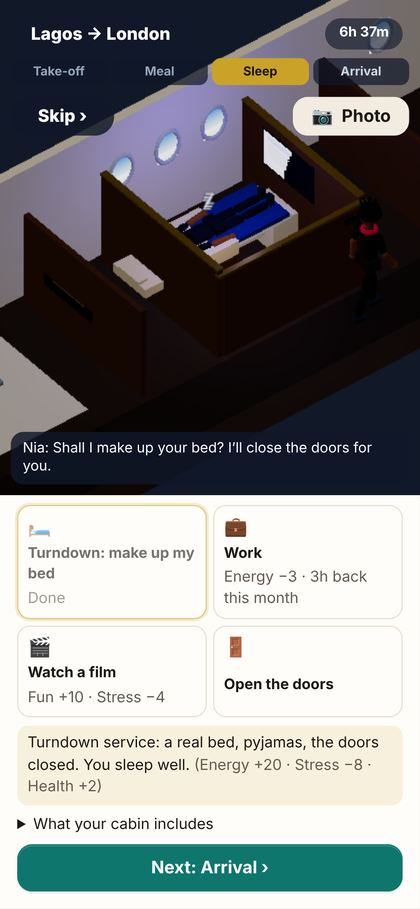
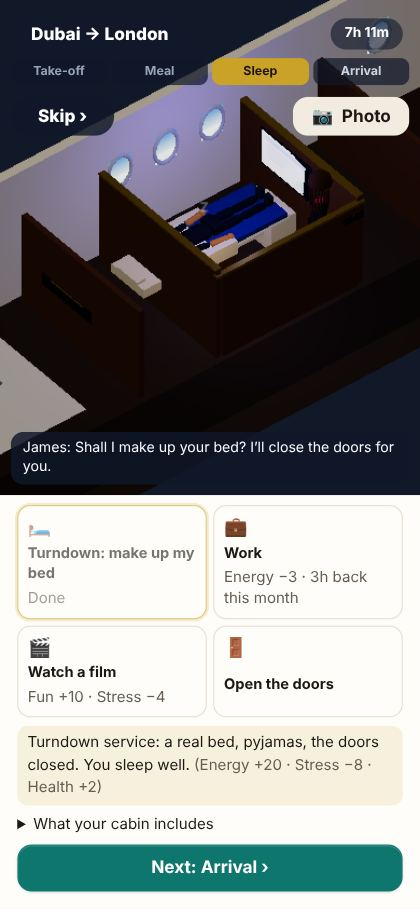
Landing page: no Lagos in the pictures; the founder has revenue
Product owner: no Lagos on the landing page. Every new picture is
retaken in e2e/landing-shots.spec.ts, spread over San Francisco (the
founder's company, three months in with its first revenue), Cairo (the
investor's tech event, the mall), Johannesburg (the banker's offers, the
Stock Exchange floor, bowling) and Dubai (the Central Bank door, a
skydive over the Palm, the first class lounge and suite to London, the
lifestyle picker). The spec now takes all of them itself; the shared
specs are unchanged. The city (SF), the club (London) and the mansion
never showed Lagos and stay.

Claude-Session: https://claude.ai/code/session_01McYc3Mep8Cjpus7NGEGGnw

diff --git a/apps/web/e2e/landing-shots.spec.ts b/apps/web/e2e/landing-shots.spec.ts
@@ -1,3 +1,4 @@
+import type { Locator } from '@playwright/test';
 import {
   expect,
   letters,
@@ -13,14 +14,16 @@ import {
 /**
  * The landing page's pictures (public/landing), taken from the game itself
  * (LANDING_ASSETS=<dir> only): a phone screen is a 420×909 JPEG (390×844 at
- * a 420/390 scale), a career card's picture a 420×315 slice of one. The
- * founder's company, an investor pitched at a tech event, a banker's offers
- * from the shareholders, the Stock Exchange floor and the lifestyle picker.
+ * a 420/390 scale), a career card's picture a 420×315 slice of one.
  *
- * The rest come from the screenshots other specs already take, scaled to
- * 420×909: FIRST_CLASS_SHOTS (first-lounge, first-suite), GAME_SHOTS
- * (bowling, skydive), BANKER_SHOTS (central-bank), SHOTS_DIR in
- * mall-more.spec.ts (mall).
+ * Spread over San Francisco, Cairo, Dubai and Johannesburg (product owner:
+ * no Lagos on the landing page): the founder's company with its first
+ * revenue (SF), founders pitching an investor at a tech event (Cairo), a
+ * banker's offers from the shareholders (Johannesburg) and the Central
+ * Bank's appointment door (Dubai), the Stock Exchange floor (Johannesburg),
+ * bowling (Johannesburg), a skydive (Dubai), the first class lounge and
+ * suite (Dubai to London), the mall (Cairo) and the lifestyle picker (Dubai).
+ * The city (SF), the club (London) and the mansion are older pictures.
  */
 const DIR = process.env.LANDING_ASSETS;
 test.use({
@@ -28,6 +31,8 @@ test.use({
   deviceScaleFactor: 420 / 390,
   launchOptions: { args: ['--use-angle=swiftshader', '--enable-unsafe-swiftshader'] },
 });
+/** Software WebGL draws the real city slowly: every 3D step gets this long. */
+const SLOW = 60_000;
 
 /** A whole phone screen, without the toasts over it. */
 async function phoneShot(page: Page, name: string) {
@@ -58,15 +63,42 @@ const command = (page: Page, cmd: unknown) =>
     return { status: r.status, body: await r.json() };
   }, cmd);
 
-async function investor(page: Page) {
+// eslint-disable-next-line @typescript-eslint/no-explicit-any -- the shots read the view loosely
+const view = (page: Page): Promise<any> =>
+  page.request
+    .get('/api/state')
+    .then((r) => r.json())
+    .then((s) => s.view);
+
+/** A month on (the dev tools' settle), in `market`. */
+const settle = (page: Page, market: string) =>
+  page.request.post('/api/dev/settle', { headers: { 'x-runway': '1' }, data: { market } });
+
+/** The map, in Lite (2D) or 3D. */
+const quality = (page: Page, q: 'lite' | '3d') =>
+  page.addInitScript((v) => localStorage.setItem('runway.mapQuality', v), q);
+
+async function founder(page: Page, market: RegExp) {
+  await playAsGuest(page);
+  await setupFounder(page, {
+    name: 'Zara Okafor',
+    handle: `ld_${letters(8)}`,
+    company: `Stallwise ${letters(4)}`,
+    idea: 'Payments for market traders',
+    market,
+  });
+  await expect(page.getByRole('button', { name: /^Phone/ })).toBeVisible({ timeout: 30_000 });
+}
+
+async function investor(page: Page, market: string) {
   await playAsGuest(page);
   await setupPlayer(page, {
     type: 'player.create',
-    name: `Ife${letters(4)} Angel`,
+    name: `Nour${letters(3)} Angel`,
     handle: `ld_${letters(8)}`,
     role: 'investor',
-    backgroundId: 'i-exited',
-    market: 'lagos',
+    backgroundId: 'i-banker',
+    market,
     gender: 'female',
     investor: { sectors: ['fintech', 'saas'], stages: ['pre-seed', 'seed'], checkSize: 2000000 },
   });
@@ -75,25 +107,68 @@ async function investor(page: Page) {
   await expect(page.getByRole('button', { name: /^Phone/ })).toBeVisible({ timeout: 30_000 });
 }
 
+async function banker(page: Page, market: string) {
+  await playAsGuest(page);
+  await setupPlayer(page, {
+    type: 'player.create',
+    name: 'Thandi Banker',
+    handle: `ld_${letters(8)}`,
+    role: 'banker',
+    backgroundId: 'b-commercial',
+    market,
+    gender: 'female',
+    bank: { name: `Baobab Trust ${letters(4)}`, bankType: 'microfinance' },
+  });
+  await tab(page, 'Bank').click();
+  const neg = page.locator('[data-banker="negotiate"]');
+  await expect(neg).toBeVisible({ timeout: 15_000 });
+  await neg.locator('[data-take="g2"]').click();
+  await expect(neg.locator('[data-take="g2"]')).toBeChecked();
+  await neg.locator('[data-take="g3"]').click();
+  await expect(neg.locator('[data-take="g3"]')).toBeChecked();
+  return neg;
+}
+
+async function goingOut(page: Page) {
+  await page.getByRole('button', { name: /^Phone/ }).click();
+  const phone = page.getByRole('dialog', { name: 'Phone' });
+  await phone.locator('[data-app="goingout"]').click();
+  const games = phone.locator('[data-going="games"]');
+  await expect(games).toBeVisible({ timeout: 15_000 });
+  return { phone, games };
+}
+
+/** Skip the ride there, if one is offered. */
+async function arrive(page: Page, mode = 'cycle') {
+  await page
+    .getByRole('dialog', { name: 'How do you want to get there?' })
+    .locator(`[data-mode="${mode}"]`)
+    .click({ timeout: 3000 })
+    .catch(() => undefined);
+}
+
 test.beforeEach(() => test.skip(!DIR));
 
-test('founder: the company', async ({ page }) => {
+test('founder: the company, a few months in (San Francisco)', async ({ page }) => {
   test.setTimeout(120_000);
-  await playAsGuest(page);
-  await setupFounder(page, {
-    name: 'Zara Okafor',
-    handle: `ld_${letters(8)}`,
-    company: `Marketline ${letters(4)}`,
-    idea: 'Payments for market traders',
-  });
+  await founder(page, /San Francisco/);
+  // Money in from savings, then three months: the first customers are paying.
+  const v = await view(page);
+  const mine = v.companies.find((c: { name: string }) => c.name.startsWith('Stallwise'));
+  expect(
+    (await command(page, { type: 'company.inject', companyId: mine.id, amount: 6_000_000 })).status,
+  ).toBe(200);
+  for (let i = 0; i < 3; i++) expect((await settle(page, 'san-francisco')).status()).toBe(200);
+  await page.reload();
   await tab(page, 'Company').click();
+  await expect(page.getByText('Monthly revenue')).toBeVisible({ timeout: 15_000 });
   await page.waitForTimeout(1500);
   await cardShot(page, 'role-founder', 86);
 });
 
-test('investor: founders pitch at a tech event', async ({ page }) => {
+test('investor: founders pitch at a tech event (Cairo)', async ({ page }) => {
   test.setTimeout(120_000);
-  await investor(page);
+  await investor(page, 'cairo');
   const phone = page.getByRole('dialog', { name: 'Phone' });
   await page.getByRole('button', { name: /^Phone/ }).click();
   await phone.locator('[data-app="events"]').click();
@@ -105,26 +180,9 @@ test('investor: founders pitch at a tech event', async ({ page }) => {
   await cardShot(page, 'role-investor', 0);
 });
 
-test('banker: the shareholders’ offers', async ({ page }) => {
+test('banker: the shareholders’ offers (Johannesburg)', async ({ page }) => {
   test.setTimeout(120_000);
-  await playAsGuest(page);
-  await setupPlayer(page, {
-    type: 'player.create',
-    name: 'Ama Mensah',
-    handle: `ld_${letters(8)}`,
-    role: 'banker',
-    backgroundId: 'b-commercial',
-    market: 'accra',
-    gender: 'female',
-    bank: { name: `Adinkra Trust ${letters(4)}`, bankType: 'microfinance' },
-  });
-  await tab(page, 'Bank').click();
-  const neg = page.locator('[data-banker="negotiate"]');
-  await expect(neg).toBeVisible({ timeout: 15_000 });
-  await neg.locator('[data-take="g2"]').click();
-  await expect(neg.locator('[data-take="g2"]')).toBeChecked();
-  await neg.locator('[data-take="g3"]').click();
-  await expect(neg.locator('[data-take="g3"]')).toBeChecked();
+  const neg = await banker(page, 'johannesburg');
   // The three offers side by side, under their heading.
   await neg.locator('.offer-table').evaluate((el) => {
     el.scrollIntoView({ block: 'start' });
@@ -133,32 +191,181 @@ test('banker: the shareholders’ offers', async ({ page }) => {
   await cardShot(page, 'role-banker', 56);
 });
 
-test('the Stock Exchange floor, for investors', async ({ page }) => {
+test('the Central Bank, by appointment (Dubai)', async ({ page }) => {
   test.setTimeout(120_000);
-  await page.addInitScript(() => localStorage.setItem('runway.mapQuality', 'lite'));
-  await investor(page);
+  const neg = await banker(page, 'dubai');
+  await neg.locator('[data-sign]').click();
+  await expect(page.locator('[data-banker="licence"]')).toBeVisible({ timeout: 15_000 });
   await tab(page, 'City').click();
   await expect(page.getByRole('application', { name: /Map of/ })).toBeVisible({ timeout: 30_000 });
-  await tapPlace(page, '[data-place="civic:lagos:stock-exchange"]');
-  const scene = page.locator('.place-scene');
-  await expect(scene).toBeVisible({ timeout: 15_000 });
+  await tapPlace(page, '[data-place="civic:dubai:central-bank"]');
+  const door = page.locator('.civic-door');
+  await expect(door).toHaveAttribute('data-civic-closed', 'appointment', { timeout: 15_000 });
+  await door.locator('[data-book-appointment]').click();
+  await expect(door).toHaveAttribute('data-civic-closed', 'early', { timeout: 15_000 });
+  await phoneShot(page, 'central-bank');
+});
+
+test('the Stock Exchange floor, for investors (Johannesburg)', async ({ page }) => {
+  test.setTimeout(120_000);
+  await quality(page, 'lite');
+  await investor(page, 'johannesburg');
+  await tab(page, 'City').click();
+  await expect(page.getByRole('application', { name: /Map of/ })).toBeVisible({ timeout: 30_000 });
+  await tapPlace(page, '[data-place="civic:johannesburg:stock-exchange"]');
+  await expect(page.locator('.place-scene')).toBeVisible({ timeout: 15_000 });
   await page.waitForTimeout(2500);
   await phoneShot(page, 'exchange');
 });
 
-test('the lifestyle picker', async ({ page }) => {
+test('the lifestyle picker (Dubai)', async ({ page }) => {
   test.setTimeout(120_000);
-  await playAsGuest(page);
-  await setupFounder(page, {
-    name: 'Zara Okafor',
-    handle: `ld_${letters(8)}`,
-    company: `Stall ${letters(5)}`,
-    idea: 'Payments for market traders',
-  });
+  await founder(page, /Dubai/);
   await page.getByRole('button', { name: /^Phone/ }).click();
   const phone = page.getByRole('dialog', { name: 'Phone' });
   await phone.locator('[data-app="settings"]').click();
   await phone.locator('[data-open-lifestyle]').click();
   await expect(page.getByRole('dialog', { name: 'Lifestyle' })).toBeVisible();
   await phoneShot(page, 'lifestyle');
+});
+
+test('the mall’s sixteen shops (Cairo)', async ({ page }) => {
+  test.setTimeout(180_000);
+  await quality(page, 'lite');
+  await founder(page, /Cairo/);
+  await tab(page, 'City').click();
+  await expect(page.locator('[data-place="mall"]').first()).toBeAttached({ timeout: 20_000 });
+  await tapPlace(page, '[data-place="mall"]', 'cycle');
+  const scene = page.locator('.mall-scene');
+  await expect(scene.locator('[data-shop]')).toHaveCount(16, { timeout: 30_000 });
+  await phoneShot(page, 'mall');
+});
+
+test('bowling at the alley, the ball rolling (Johannesburg)', async ({ page }) => {
+  test.setTimeout(420_000);
+  await quality(page, '3d');
+  await founder(page, /Johannesburg/);
+  const { games } = await goingOut(page);
+  await games.locator('[data-go="bowling"]').click();
+  await arrive(page);
+  const scene = page.locator('.place-scene');
+  await expect(scene).toBeVisible({ timeout: 30_000 });
+  await scene.locator('[data-action="fun:bowling"]').click();
+  const dialog = page.getByRole('dialog', { name: 'Play together' });
+  await dialog
+    .getByLabel(/Stake per player/)
+    .last()
+    .fill('5');
+  await dialog.getByRole('button', { name: 'Play vs AI' }).click();
+  const lane = dialog.locator('.bowling-lane canvas');
+  await expect(lane).toHaveAttribute('data-mine', '1', { timeout: SLOW });
+  // A swipe up from the right of the lane, bowing out to hook back.
+  await lane.scrollIntoViewIfNeeded();
+  const box = (await lane.boundingBox())!;
+  const from = { x: box.x + box.width * 0.66, y: box.y + box.height * 0.92 };
+  await page.mouse.move(from.x, from.y);
+  await page.mouse.down();
+  for (let i = 1; i <= 8; i++) {
+    const q = i / 8;
+    await page.mouse.move(
+      from.x - box.width * 0.04 * q + Math.sin(Math.PI * q) * 18,
+      from.y - box.height * 0.5 * q,
+    );
+    await page.waitForTimeout(12);
+  }
+  await page.mouse.up();
+  await expect(lane).toHaveAttribute('data-rolling', '1', { timeout: 15_000 });
+  await page.waitForTimeout(1600);
+  await phoneShot(page, 'bowling');
+});
+
+test('a tandem skydive, under the canopy (Dubai)', async ({ page }) => {
+  test.setTimeout(420_000);
+  await founder(page, /Dubai/);
+  // A skydive needs standard of living 3.
+  expect((await command(page, { type: 'player.lifestyle', tier: 3 })).status).toBe(200);
+  await page.reload();
+  const { games } = await goingOut(page);
+  await games.locator('[data-go="skydive"]').click();
+  const book = page.getByRole('dialog', { name: 'Book a skydive' });
+  await book.locator('[data-air-item="skydive-tandem"] [data-action="air-book"]').click();
+  const air = page.locator('[data-air="skydive"]');
+  await expect(air).toHaveAttribute('data-air-phase', 'door', { timeout: SLOW });
+  await air.locator('[data-action="jump"]').click();
+  await expect(air).toHaveAttribute('data-air-phase', 'freefall', { timeout: 15_000 });
+  await air.locator('[data-action="arch"]').click();
+  await expect
+    .poll(async () => Number(await air.locator('[data-alt]').getAttribute('data-alt')), {
+      timeout: 60_000,
+      intervals: [200],
+    })
+    .toBeLessThan(1700);
+  await air.locator('[data-action="pull"]').click({ timeout: 5_000 });
+  await expect(air).toHaveAttribute('data-air-phase', 'canopy', { timeout: 10_000 });
+  await page.waitForTimeout(800);
+  await phoneShot(page, 'skydive');
+});
+
+test('first class from Dubai: the lounge, then the bed at turndown', async ({ page }) => {
+  test.setTimeout(900_000);
+  await quality(page, '3d');
+  await page.addInitScript(() =>
+    localStorage.setItem('runway.flightClock', '2026-06-15T11:00:00Z'),
+  );
+  await investor(page, 'dubai');
+  await tab(page, 'City').click();
+  await expect(page.getByRole('application', { name: /Map of Dubai/ })).toBeVisible({
+    timeout: SLOW,
+  });
+  // Book first class to London (and back).
+  await page.getByRole('button', { name: /^Phone/ }).click();
+  const phone = page.getByRole('dialog', { name: 'Phone' });
+  await phone.locator('[data-app="travel"]').click();
+  const row = phone.locator('[data-flight="london"]');
+  await row.getByRole('button', { name: 'Book a flight to London' }).click();
+  const picker = row.locator('[data-trip-picker]');
+  await picker.locator('[data-cabin-option="first"]').click();
+  await picker.locator('[data-hotel="business"]').click();
+  await picker.locator('[data-hotel-book]').click();
+  await arrive(page, 'skip');
+  const trip = page.getByRole('region', { name: 'Your trip' });
+  await expect(trip).toBeVisible({ timeout: SLOW });
+  // Check in, security: the lounge. A meal, champagne and a shower, until the flight is called.
+  const skip = (where: Locator) =>
+    where
+      .getByRole('button', { name: 'Skip' })
+      .click({ timeout: 3000 })
+      .catch(() => undefined);
+  await trip.getByRole('button', { name: 'Check in for London' }).click();
+  await skip(trip);
+  await trip.getByRole('button', { name: 'Go through security' }).click({ timeout: 15_000 });
+  await skip(trip);
+  const lounge = page.locator('.lounge-scene[data-lounge="first"]');
+  await expect(lounge).toHaveAttribute('data-lounge-ready', 'yes', { timeout: 3 * SLOW });
+  const panel = trip.locator('[data-lounge-panel="first"]');
+  for (const act of ['dine', 'drink', 'shower']) {
+    await panel.locator(`[data-lounge-act="${act}"]`).click();
+    await expect(panel.locator(`[data-lounge-result="${act}"]`)).toBeVisible({ timeout: 30_000 });
+  }
+  await expect(lounge).toHaveAttribute('data-lounge-called', 'yes');
+  await page.waitForTimeout(2500);
+  await phoneShot(page, 'first-lounge');
+  // The suite: on to the night, turndown into a bed.
+  await panel.locator('[data-lounge-board]').click();
+  await trip.getByRole('button', { name: 'Board for London' }).click();
+  const flight = page.getByRole('dialog', { name: 'Flight to London' });
+  await expect(flight).toHaveAttribute('data-flight-phase', 'cruise', { timeout: 3 * SLOW });
+  const suite = flight.locator('.suite-flight[data-cabin="first"]');
+  await expect(suite).toHaveAttribute('data-suite-ready', 'yes', { timeout: 3 * SLOW });
+  await expect
+    .poll(async () => (await view(page)).flights.inflight?.cabin ?? null, { timeout: SLOW })
+    .toBe('first');
+  await suite.locator('[data-suite-next]').click();
+  await expect(suite).toHaveAttribute('data-suite-stage', 'meal');
+  await suite.locator('[data-suite-next]').click();
+  await expect(suite).toHaveAttribute('data-suite-stage', 'night');
+  await suite.locator('[data-inflight-act="sleep"]').click();
+  await expect(suite.locator('[data-inflight-result="sleep"]')).toBeVisible({ timeout: 30_000 });
+  await page.waitForTimeout(4000);
+  await phoneShot(page, 'first-suite');
 });
